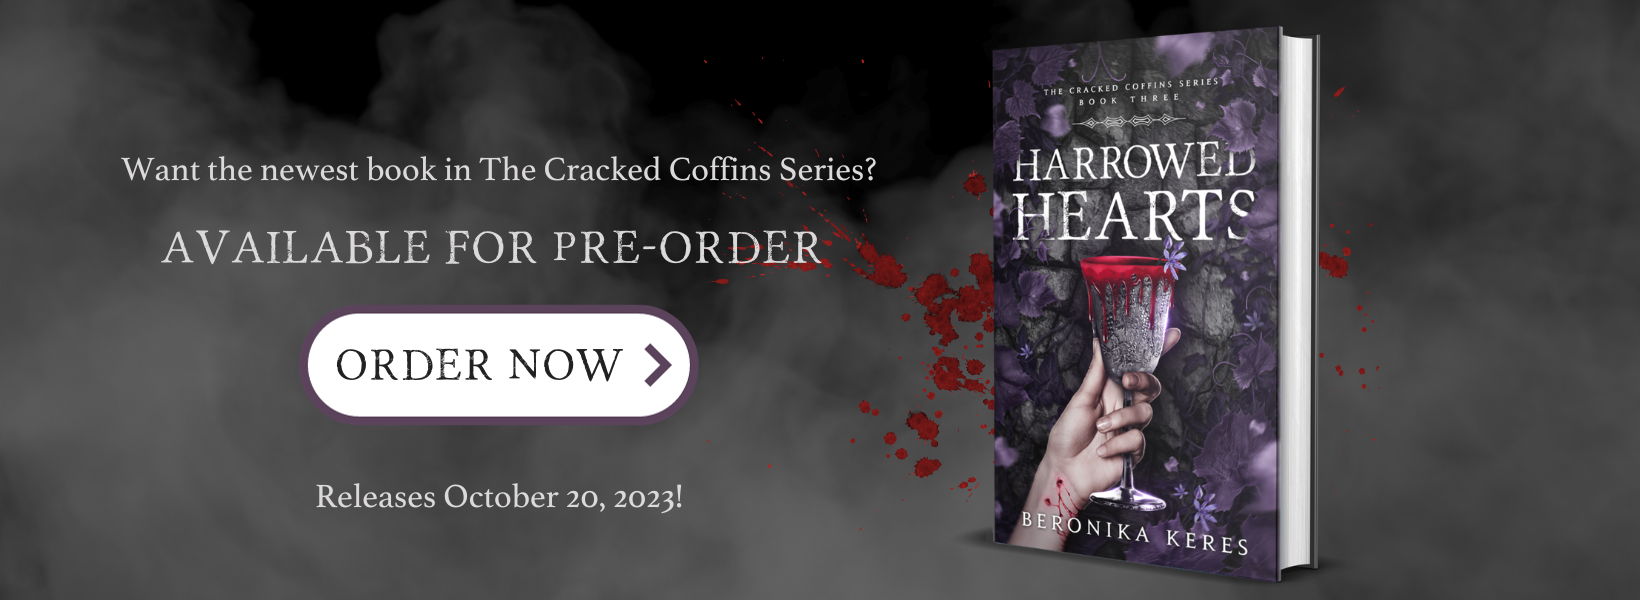
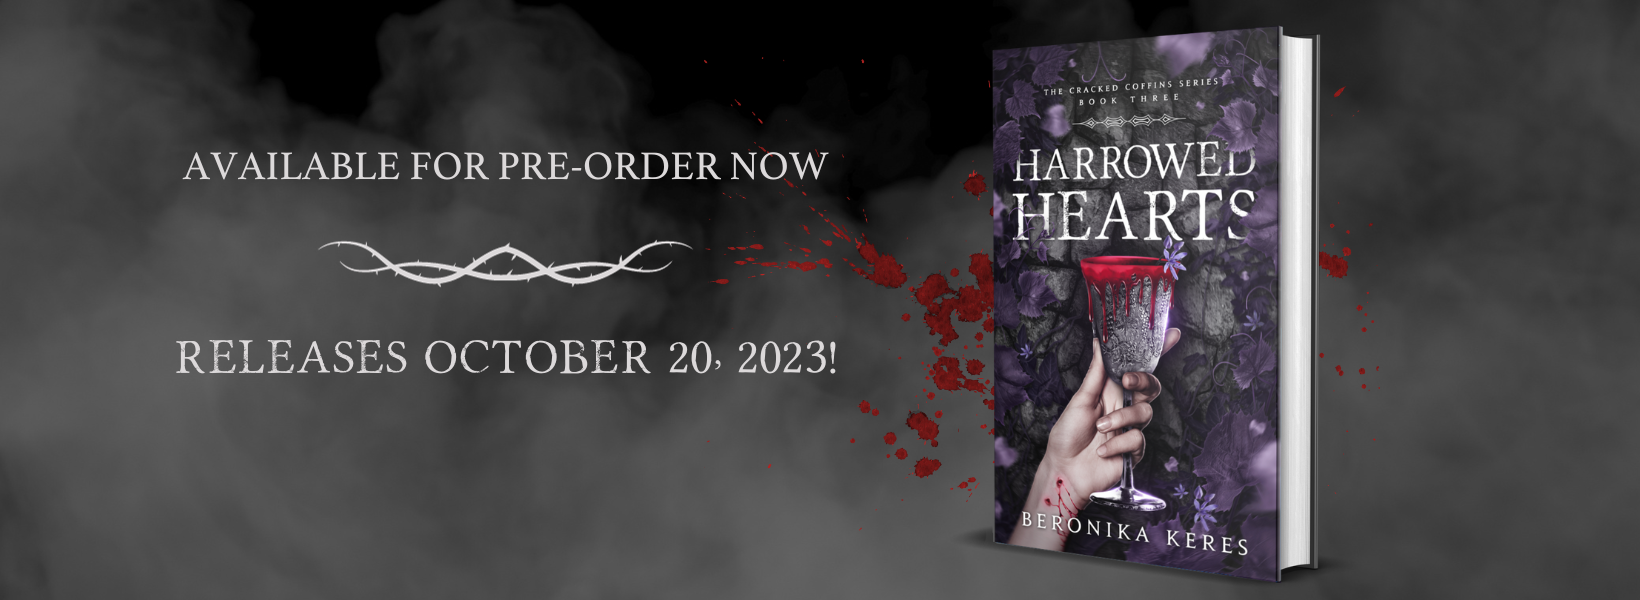
made changes to carousel

diff --git a/src/components/Carousel.jsx b/src/components/Carousel.jsx
@@ -1,27 +1,23 @@
-import React from 'react';
-import Carousel from 'react-material-ui-carousel'
-import { Paper, Button } from '@mui/material'
+import React from "react";
+import Carousel from "react-material-ui-carousel";
+import { Paper, Button } from "@mui/material";
 
 function CarouselComponent({ items }) {
-    return (
-        <Carousel>
-            {
-                items.map( (item, i) => <Item key={i} item={item} /> )
-            }
-        </Carousel>
-    )
+  return (
+    <Carousel>
+      {items.map((item, i) => (
+        <Item key={i} item={item} />
+      ))}
+    </Carousel>
+  );
 }
 
 function Item({ item }) {
-    return (
-        <Paper>
-            <img src={item.image} style={{ width: '100%', height: '600px' }} />
-            <Button className="CheckButton">
-                Pre-Order Now!
-            </Button>
-        </Paper>
-    )
+  return (
+    <Paper sx={{ backgroundColor: 'transparent' }}>
+      <img src={item.image} style={{ width: "100%", height: "100%" }} />
+    </Paper>
+  );
 }
 
 export default CarouselComponent;
-

diff --git a/src/pages/App.jsx b/src/pages/App.jsx
@@ -5,7 +5,7 @@ import HarrowedHeartsFeature from "../assets/HarrowedHeartsFeature.png";
 
 const items = [
   {
-    image: HarrowedHeartsFeature
+    image: HarrowedHeartsFeature,
   },
   {
     image: SeriesFeature
